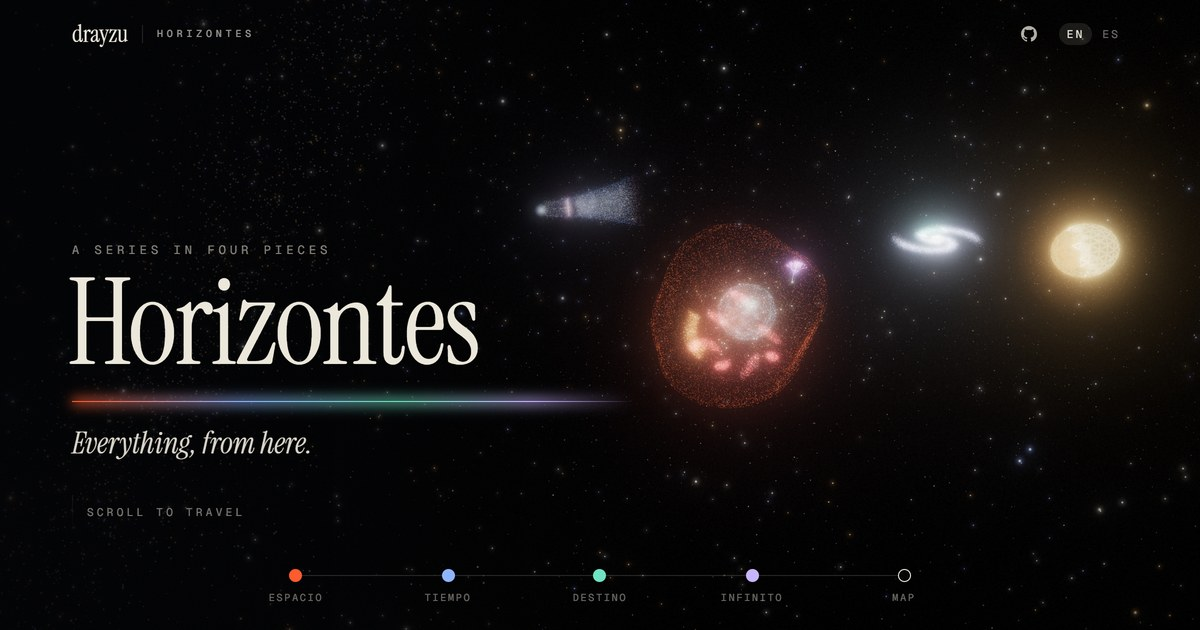
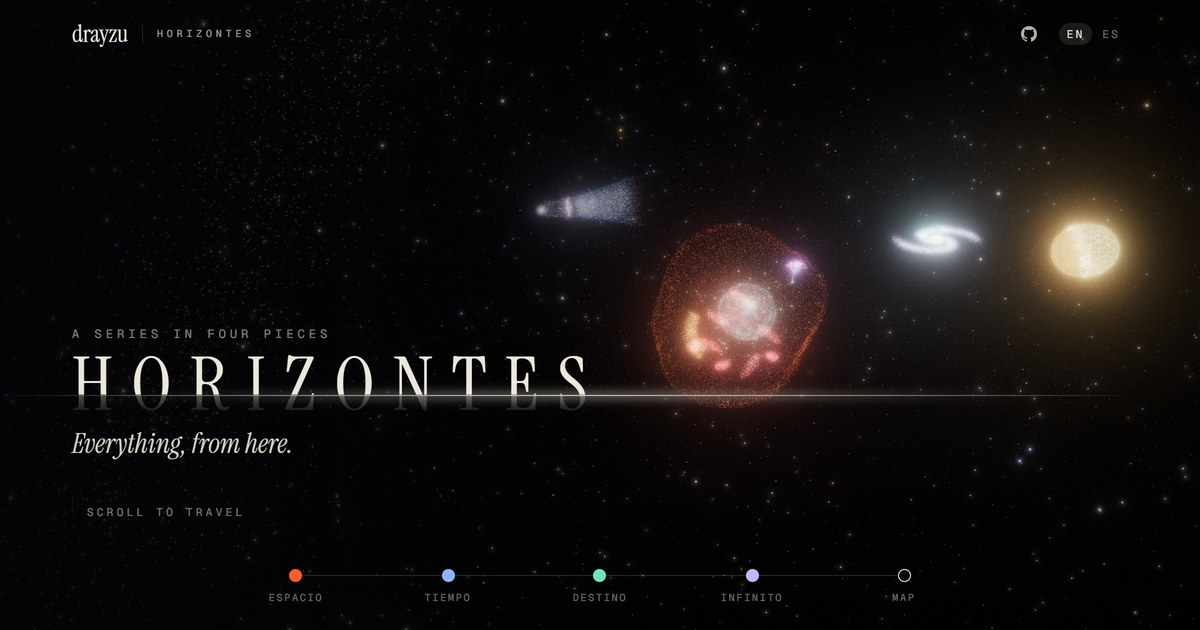
feat: title the series as in the profile README
HORIZONTES in spaced capitals, cut by a line of light with the part below dimmed like a reflection; the letters come out of a blur one by one, as the old title card did, and a glint runs along the line now and then. The dive's flood only animates on the way in.

Changed region(s): [[0.0617, 0.3921, 0.74, 0.6635], [0.0617, 0.6937, 0.2775, 0.7238], [0.1542, 0.3921, 0.2775, 0.4222]]

diff --git a/src/style.css b/src/style.css
@@ -64,7 +64,7 @@ body.ready .rail { opacity: 1; pointer-events: auto; }
 .panel.on > :nth-child(6) { transition-delay: .35s; }
 
 .kick { font-size: 12px; letter-spacing: .34em; color: var(--c); margin: 0 0 18px; }
-.panel h2, .hero h1 { font: 400 clamp(54px, 6.8vw, 118px)/.9 var(--serif); margin: 0; letter-spacing: -.01em; }
+.panel h2 { font: 400 clamp(54px, 6.8vw, 118px)/.9 var(--serif); margin: 0; letter-spacing: -.01em; }
 .tag { font: italic 400 clamp(20px, 1.8vw, 27px)/1.25 var(--serif); opacity: .78; margin: 14px 0 0; }
 .ruler { display: flex; align-items: center; gap: 14px; margin: 26px 0 0; font-size: 12px; opacity: .8; }
 .ruler span { white-space: nowrap; }
@@ -82,19 +82,37 @@ body.ready .rail { opacity: 1; pointer-events: auto; }
 .enter:hover { border-color: var(--c); box-shadow: 0 0 34px -6px var(--c); }
 .enter:hover span { transform: translateX(3px); }
 
-/* the horizon: one line in the colours of the four pieces */
-.horizon { position: relative; height: 1px;
-  background: linear-gradient(90deg, transparent, var(--pot) 16%, var(--time) 40%, var(--civ) 62%, var(--inf) 84%, transparent); }
-.horizon::after { content: ''; position: absolute; left: 0; right: 0; top: -3px; height: 7px; background: inherit; filter: blur(6px); opacity: .9; }
+/* HORIZONTES as in the profile README: spaced capitals cut by a line of light, the part below the line dim,
+   as if under the horizon. Instrument Serif with line-height 1: baseline at .84em, caps .72em tall, so the
+   line sits 30% up the caps (.624em) and what is below fades out over 45% of a cap (.948em). */
+.hz { position: relative; margin: 0; font: 400 var(--hs, 100px)/1 var(--serif); }
+.hz-word { display: inline-flex; gap: .25em;
+  -webkit-mask: linear-gradient(#000 .624em, rgba(0,0,0,.32) .624em, transparent .948em) no-repeat 0 0 / 100% 100%;
+          mask: linear-gradient(#000 .624em, rgba(0,0,0,.32) .624em, transparent .948em) no-repeat 0 0 / 100% 100%; }
+/* each letter comes out of a blur, as the name did on the old title card */
+.hz-word span { display: inline-block; opacity: 0; filter: blur(14px); transform: translateY(.08em); }
+.hz-line { position: absolute; top: .624em; height: 1px; opacity: 0; pointer-events: none;
+  background: linear-gradient(90deg, transparent, rgba(236,231,219,.35) 12%, var(--ink) 50%, rgba(236,231,219,.35) 88%, transparent); }
+.hz-line::before { content: ''; position: absolute; left: 8%; right: 8%; top: -7px; height: 15px; border-radius: 50%;
+  background: radial-gradient(closest-side, rgba(236,231,219,.5), transparent); filter: blur(4px); }
+/* a slow glint runs along it now and then */
+.hz-line::after { content: ''; position: absolute; top: -4px; left: 0; width: 140px; height: 9px; margin-left: -70px; border-radius: 50%; opacity: 0;
+  background: radial-gradient(closest-side, #fff, rgba(255,255,255,.35) 45%, transparent); }
+@keyframes letter { to { opacity: 1; filter: none; transform: none; } }
+@keyframes line-on { to { opacity: .9; } }
+@keyframes glint { 0% { left: 4%; opacity: 0; } 4% { opacity: 1; } 25% { opacity: 1; } 29% { left: 96%; opacity: 0; } 100% { left: 96%; opacity: 0; } }
 
-.hero { top: auto; bottom: 16vh; transform: none; width: min(860px, 72vw); }
-.hero .kick { color: var(--ink); opacity: .55; margin-bottom: 14px; }
-.hero h1 { font-size: clamp(72px, 10vw, 180px); letter-spacing: -.02em; line-height: .86; margin-left: -.04em; }
-.hero .horizon { width: min(560px, 62vw); margin: 26px 0 0;
-  background: linear-gradient(90deg, var(--pot), var(--time) 30%, var(--civ) 58%, var(--inf) 82%, transparent); }
-.panel.hero > .horizon { transform: scaleX(0); transform-origin: left; filter: none; }
-.panel.hero.on > .horizon { transform: scaleX(1); transition: transform 1.8s cubic-bezier(.6,0,.2,1) .25s; }
-.hero .tag { font-size: clamp(26px, 2.5vw, 40px); opacity: .92; margin-top: 22px; }
+.hero { top: auto; bottom: 16vh; transform: none; width: min(900px, 76vw); }
+.hero .kick { color: var(--ink); opacity: .55; margin-bottom: 6px; }
+.hero .hz { --hs: clamp(44px, 6.2vw, 110px); }
+.hero .hz-line { left: calc(-1 * var(--gut)); right: -14vw; }
+.panel.hero > .hz { transform: none; filter: none; }
+.panel.hero .hz-word span { transition: opacity 1.3s cubic-bezier(.2,.7,.2,1), filter 1.3s cubic-bezier(.2,.7,.2,1), transform 1.3s cubic-bezier(.2,.7,.2,1); transition-delay: calc(.15s + var(--i) * .07s); }
+.panel.hero.on .hz-word span { opacity: 1; filter: none; transform: none; }
+.panel.hero .hz-line { transition: opacity .6s ease; }
+.panel.hero.on .hz-line { opacity: .9; }
+.panel.hero.on .hz-line::after { animation: glint 9s ease-in-out 3s infinite; }
+.hero .tag { font-size: clamp(24px, 2.3vw, 36px); opacity: .9; margin-top: 4px; }
 .hint { margin: 34px 0 0; font-size: 11px; letter-spacing: .3em; opacity: .5; display: flex; align-items: center; gap: 14px; }
 .hint i { width: 1px; height: 34px; background: linear-gradient(var(--ink), transparent); animation: drop 2.2s ease-in-out infinite; transform-origin: top; }
 @keyframes drop { 0% { transform: scaleY(0); } 50% { transform: scaleY(1); } 100% { transform: scaleY(1); opacity: 0; } }
@@ -132,18 +150,18 @@ body.map .lbl { opacity: 1; visibility: visible; transition: opacity .8s, visibi
 #intro { position: fixed; inset: 0; z-index: 20; background: var(--bg); display: flex; flex-direction: column; align-items: center; justify-content: center;
   padding-bottom: 6vh; cursor: pointer; transition: opacity 1.1s ease, visibility 0s 1.1s; }
 #intro.out { opacity: 0; visibility: hidden; }
-#intro .by { font: 400 clamp(20px, 1.9vw, 30px)/1 var(--serif); margin-bottom: clamp(14px, 1.8vw, 26px); opacity: 0; animation: fade 1.2s ease .1s forwards; }
-#intro .word { font: 400 clamp(64px, 14vw, 230px)/.9 var(--serif); letter-spacing: -.02em; display: flex; }
-#intro .word span { opacity: 0; filter: blur(14px); transform: translateY(.08em); animation: letter 1.3s cubic-bezier(.2,.7,.2,1) forwards; }
-@keyframes letter { to { opacity: 1; filter: none; transform: none; } }
-#intro .horizon { width: min(78vw, 1180px); margin: clamp(22px, 2.6vw, 40px) 0 clamp(24px, 2.8vw, 42px); transform: scaleX(0); animation: draw 1.8s cubic-bezier(.6,0,.2,1) .8s forwards; }
-@keyframes draw { to { transform: scaleX(1); } }
-#intro .sub { font-size: 11px; letter-spacing: .42em; padding-left: .42em; opacity: 0; animation: fade 1s ease 1.5s forwards; }
+#intro .kick { color: var(--ink); font-size: 12px; letter-spacing: .42em; padding-left: .42em; margin: 0 0 clamp(4px, 1vw, 14px); opacity: 0; animation: fade 1s ease .1s forwards; }
+#intro .hz { --hs: clamp(40px, 8.4vw, 150px); margin-left: .25em; }
+#intro .hz-line { left: 50%; width: min(94vw, 1500px); transform: translateX(-50%); animation: line-on .6s ease forwards; }
+#intro .hz-line::after { animation: glint 9s ease-in-out 2.4s infinite; }
+#intro .hz-word span { animation: letter 1.3s cubic-bezier(.2,.7,.2,1) calc(.35s + var(--i) * .09s) forwards; }
+#intro .tag { font-size: clamp(20px, 2vw, 30px); margin: 0; opacity: 0; animation: fade-tag .9s ease 2.3s forwards; }
 @keyframes fade { to { opacity: .6; } }
+@keyframes fade-tag { to { opacity: .72; } }
 
 #flood { position: fixed; left: 50%; top: 50%; width: 40px; height: 40px; margin: -20px; border-radius: 50%; z-index: 30; pointer-events: none;
-  background: radial-gradient(circle, var(--c, var(--pot)) 52%, transparent 71%); transform: scale(0); transition: transform 1.1s cubic-bezier(.7,0,.3,1); }
-#flood.on { transform: scale(90); }
+  background: radial-gradient(circle, var(--c, var(--pot)) 52%, transparent 71%); transform: scale(0); }
+#flood.on { transform: scale(90); transition: transform 1.1s cubic-bezier(.7,0,.3,1); } /* only on the way in, so it never shows shrinking */
 body.diving .panel, body.diving .hud, body.diving .rail, body.diving .shade { opacity: 0 !important; transition: opacity .5s ease; }
 
 /* ---------- without WebGL: the series as a plain list ---------- */
@@ -154,12 +172,15 @@ body.nogl .hud { position: static; opacity: 1; pointer-events: auto; }
 body.nogl main { padding: 4vh var(--gut) 12vh; display: grid; gap: 12vh; }
 body.nogl .panel { position: static; transform: none; width: auto; max-width: 640px; opacity: 1; visibility: visible; pointer-events: auto; }
 body.nogl .panel > * { transform: none; filter: none; }
+body.nogl .hz-word span { transform: none; opacity: 1; filter: none; }
+body.nogl .hz-line { opacity: .9; }
 body.nogl .nogl-note { display: block; padding: 0 var(--gut); font-size: 12px; opacity: .5; }
 
 @media (max-width: 760px) {
   .panel { left: 20px; right: 20px; width: auto; top: auto; bottom: 96px; transform: none; }
   .hero { bottom: 110px; }
-  .hero h1 { font-size: clamp(60px, 17vw, 96px); }
+  .hero .hz { --hs: clamp(26px, 11vw, 60px); }
+  .hero .hz-line { right: -20px; }
   .shade { background: linear-gradient(0deg, rgba(4,5,7,.9) 0%, rgba(4,5,7,.55) 40%, rgba(4,5,7,0) 70%); }
   .rail button span { display: none; }
   .hud-r { gap: 8px; }
@@ -171,7 +192,9 @@ body.nogl .nogl-note { display: block; padding: 0 var(--gut); font-size: 12px; o
 @media (prefers-reduced-motion: reduce) {
   .panel > *, .panel.on > * { transition: none; filter: none; transform: none; }
   .hint i { animation: none; }
-  #intro .horizon, .panel.hero > .horizon { animation: none; transform: none; }
+  .hz-word span, #intro .hz-word span { animation: none; transform: none; transition: none; opacity: 1; filter: none; }
+  .hz-line, #intro .hz-line { animation: none; opacity: .9; }
+  .hz-line::after { display: none; }
 }
 
 /* ?capture: only the journey, for the README clip */

diff --git a/index.html b/index.html
@@ -23,17 +23,10 @@
   <div id="track"></div>
 
   <div id="intro">
-    <div class="by">drayzu</div>
-    <div class="word" aria-label="Horizontes"></div>
-    <div class="horizon" aria-hidden="true"></div>
-    <div class="sub" data-t="series">A SERIES IN FOUR PIECES</div>
+    <p class="kick" data-t="intro.kick">DRAYZU · A SERIES</p>
+    <h1 class="hz" aria-label="Horizontes"><i class="hz-line" aria-hidden="true"></i><span class="hz-word" aria-hidden="true"></span></h1>
+    <p class="tag" data-t="hero.tag">Everything, from here.</p>
   </div>
-  <script>
-    // runs before the 3D loads, so the title appears at once
-    window.__t0 = performance.now();
-    [...'Horizontes'].forEach((ch, i) => { const s = document.createElement('span'); s.textContent = ch; s.style.animationDelay = (.3 + i * .065) + 's'; document.querySelector('#intro .word').append(s); });
-    document.getElementById('intro').addEventListener('click', () => { window.__go = true; }, { once: true });
-  </script>
 
   <header class="hud">
     <a class="logo" href="#" data-go="0">drayzu<span>HORIZONTES</span></a>
@@ -46,8 +39,7 @@
   <main>
     <section class="panel hero" data-stop="0">
       <p class="kick" data-t="series">A SERIES IN FOUR PIECES</p>
-      <h1>Horizontes</h1>
-      <div class="horizon" aria-hidden="true"></div>
+      <h1 class="hz" aria-label="Horizontes"><i class="hz-line" aria-hidden="true"></i><span class="hz-word" aria-hidden="true"></span></h1>
       <p class="tag" data-t="hero.tag">Everything, from here.</p>
       <p class="hint"><i></i><span data-t="hero.hint">SCROLL TO TRAVEL</span></p>
     </section>
@@ -115,6 +107,13 @@
   <p class="nogl-note" data-t="nogl"></p>
   <div id="flood"></div>
 
+  <script>
+    // runs before the 3D loads, so the title appears at once
+    window.__t0 = performance.now();
+    // HORIZONTES, one letter per span so each can rise from behind the line (the title card and the first stop)
+    document.querySelectorAll('.hz-word').forEach(w => [...'HORIZONTES'].forEach((ch, i) => { const s = document.createElement('span'); s.textContent = ch; s.style.setProperty('--i', i); w.append(s); }));
+    document.getElementById('intro').addEventListener('click', () => { window.__go = true; }, { once: true });
+  </script>
   <script type="module" src="/src/main.ts"></script>
 </body>
 </html>

diff --git a/src/i18n.ts b/src/i18n.ts
@@ -4,6 +4,7 @@ const sup = (n: string) => `10<sup>${n}</sup>`;
 
 const T: Record<Lang, Record<string, string>> = {
   en: {
+    'intro.kick': 'DRAYZU · A SERIES',
     'series': 'A SERIES IN FOUR PIECES',
     'hero.tag': 'Everything, from here.',
     'hero.hint': 'SCROLL TO TRAVEL',
@@ -23,6 +24,7 @@ const T: Record<Lang, Record<string, string>> = {
     'nogl': 'Your browser cannot show the 3D journey, so here is the series as a list.',
   },
   es: {
+    'intro.kick': 'DRAYZU · UNA SERIE',
     'series': 'UNA SERIE EN CUATRO PIEZAS',
     'hero.tag': 'Todo, desde aquí.',
     'hero.hint': 'DESLIZA PARA VIAJAR',

diff --git a/src/main.ts b/src/main.ts
@@ -158,7 +158,7 @@ addEventListener('keydown', startReveal, { once: true });
 addEventListener('wheel', startReveal, { once: true, passive: true });
 addEventListener('touchstart', startReveal, { once: true, passive: true });
 if (window.__go || reduced || capture || params.has('og') || params.has('stop')) startReveal();
-setTimeout(startReveal, Math.max(3800 - (performance.now() - window.__t0), 300));
+setTimeout(startReveal, Math.max(4400 - (performance.now() - window.__t0), 300)); // once the title has risen and its line is read
 history.scrollRestoration = 'manual';
 scrollTo(0, 0);
 
